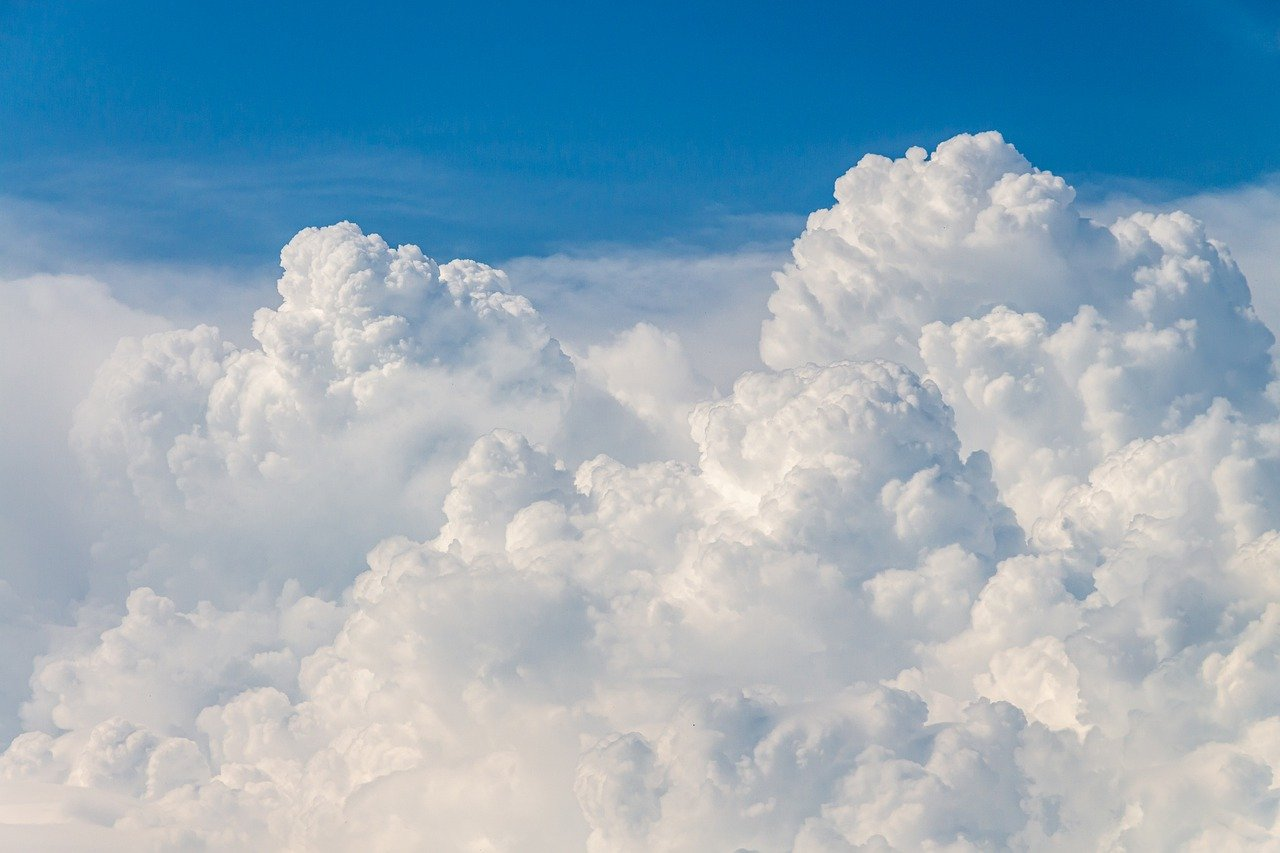
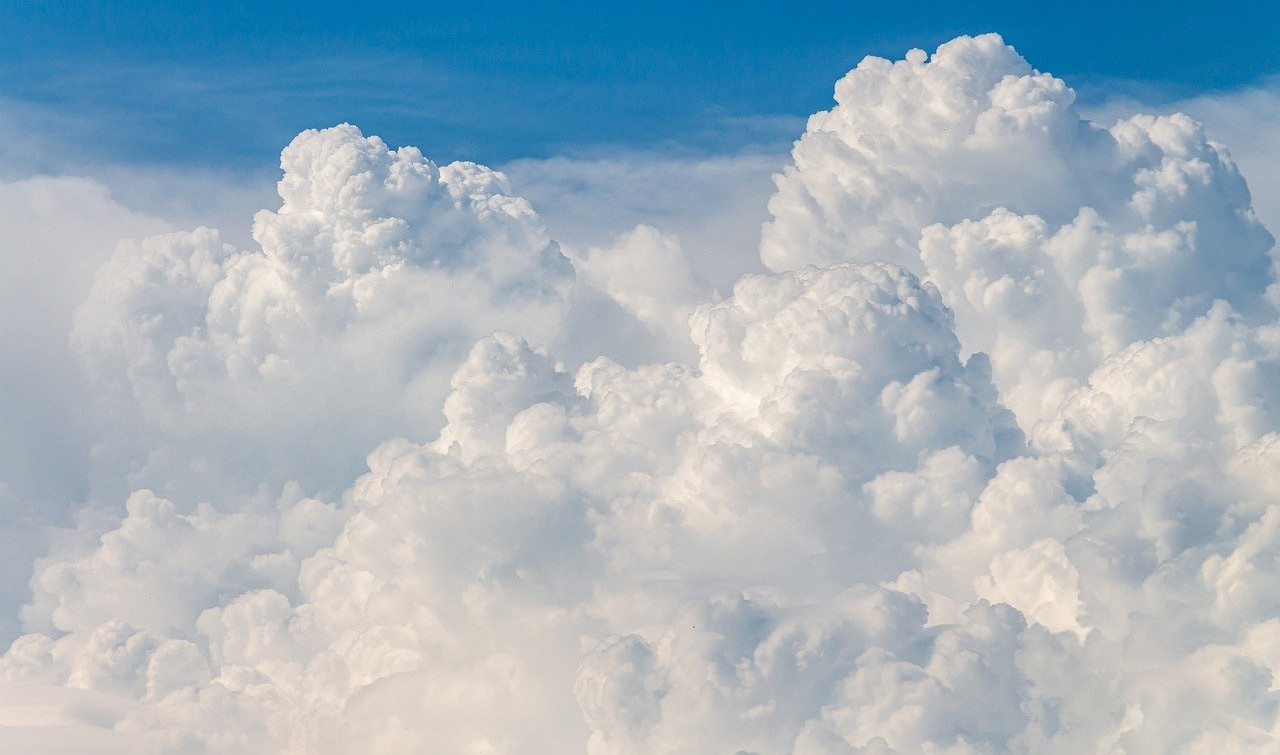
adding background image to current weather display

diff --git a/index.html b/index.html
@@ -57,7 +57,8 @@
           id="current-weather-container"
           class="border-2 border-gray-600 my-10 row-span-1"
         >
-          <article class="grid grid-cols-2 grid-flow-col grid-rows-2">
+          <article class="grid grid-cols-2 grid-flow-col grid-rows-2"
+          style="background-image: url(./assets/images/clouds-gb2ea64954_1280.jpg)">
             <div id="city-date-icon" class="box-border"></div>
             <div id="temp-div" class="box-border h-12 max-w-20px"></div>
             <div id="wind-div" class="box-border h-12 max-w-20px"></div>
